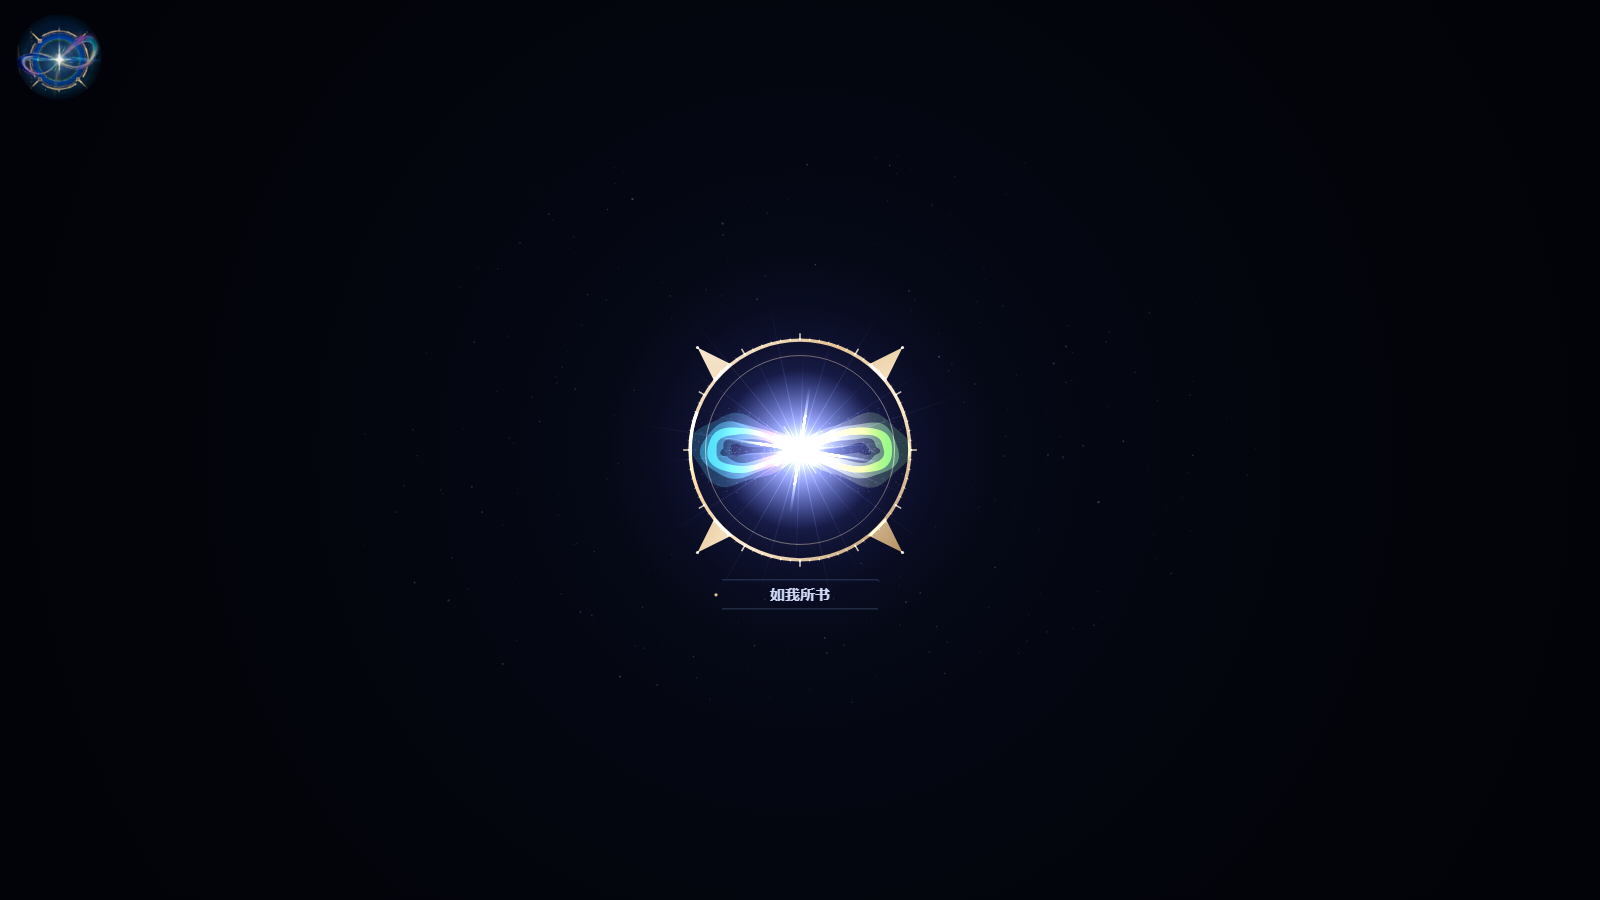
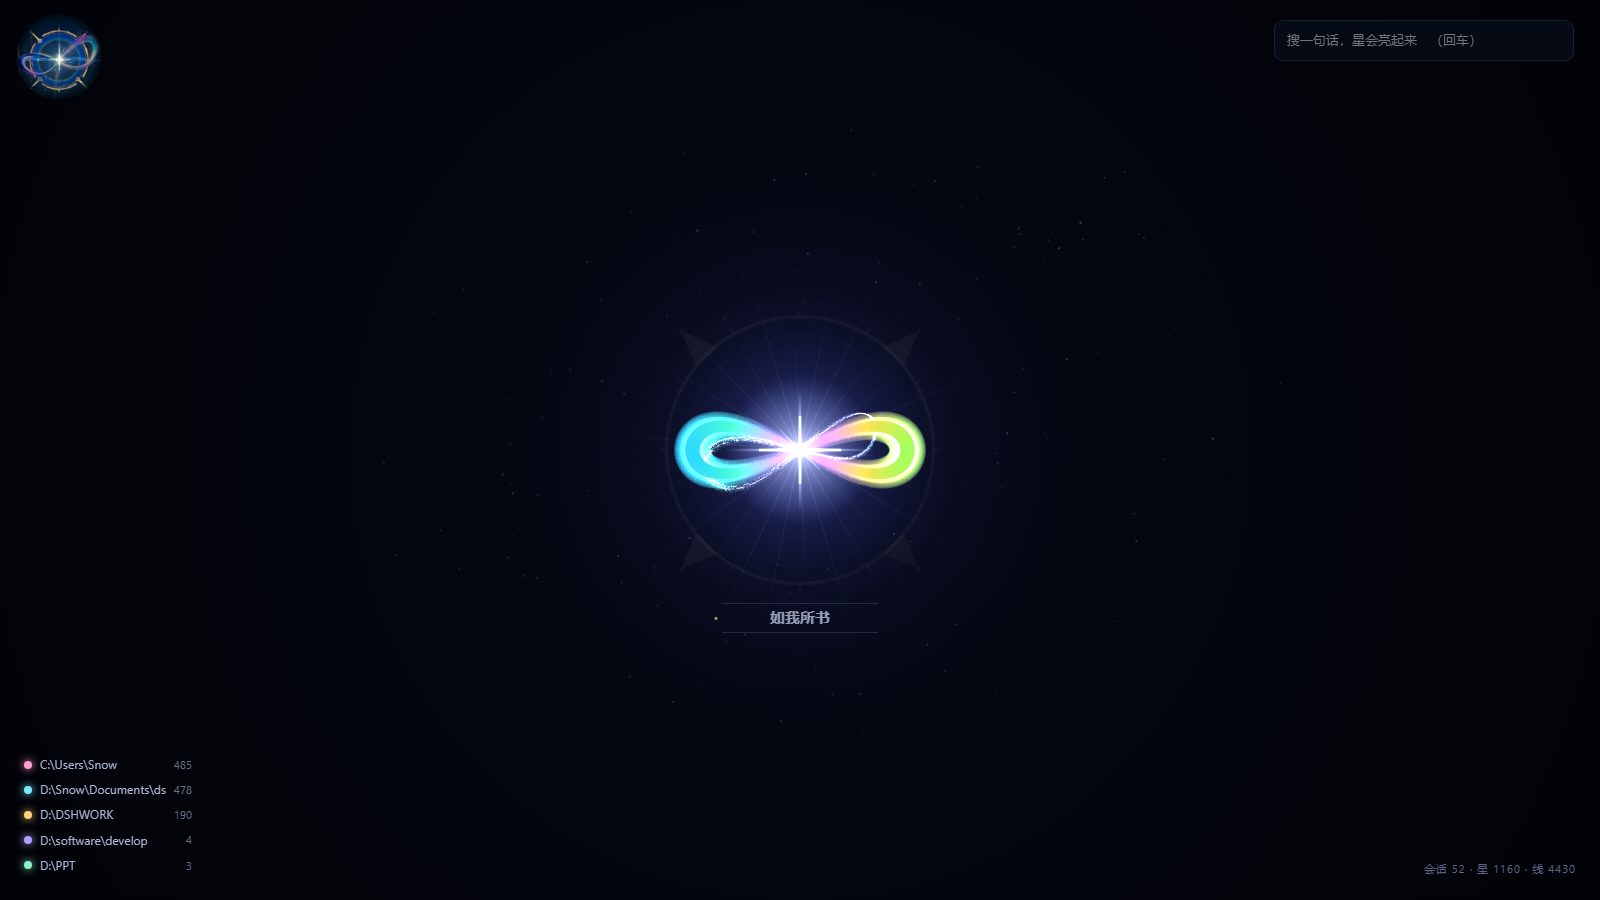
凝缩时相机复位（yaw/pitch/距离）并按实测外径对齐图标；丝带改盖章式笔刷；补回丢失的 BW 声明

diff --git a/public/index.html b/public/index.html
@@ -806,7 +806,7 @@
     } else if (autoSpin) {
       target.yaw += 0.0011;
     }
-    const k = dragging ? 0.35 : 0.12;   // 拖的时候跟手快一点
+    const k = stage === 'morph' ? 0.26 : (dragging ? 0.35 : 0.12);   // 凝缩时相机跟得更紧
     cam.yaw += (target.yaw - cam.yaw) * k;
     cam.pitch += (target.pitch - cam.pitch) * k;
     cam.dist += (target.dist - cam.dist) * 0.12;
@@ -824,8 +824,10 @@
     } else if (stage === 'morph') {
       morphT = Math.max(0, Math.min(1, morphT + (dt / MORPH_SECONDS) * morphDir));
       focusTarget.x *= 0.8; focusTarget.y *= 0.8; focusTarget.z *= 0.8;
-      // 凝缩时把 yaw 压回 0，保证每一轮的收束角度完全一样
-      target.yaw += (0 - target.yaw) * 0.16;
+      // 凝缩同时把视角复位：转到正面、拉回默认距离，之后缩小才对得上图标
+      target.yaw += (0 - target.yaw) * 0.18;
+      target.pitch += (1.32 - target.pitch) * 0.18;
+      target.dist += (5.9 - target.dist) * 0.18;
       if (morphT >= 1) stage = 'symbol';
       else if (morphT <= 0) { stage = 'galaxy'; setChrome(true); }
     }
@@ -862,11 +864,11 @@
       if (stage === 'morph') {
         const b = bandBounds();
         if (b) {
-          const settle = clamp01((morphT - 0.86) / 0.14);
+          const settle = clamp01((morphT - 0.94) / 0.06);
           view = {
             cx: W / 2,
             cy: H / 2,
-            size: Math.max(24, b.w) * (1 - settle) + SYMBOL_PX * settle,
+            size: Math.max(24, b.w / 1.24) * (1 - settle) + SYMBOL_PX * settle,
           };
         }
       }
@@ -908,8 +910,8 @@
       return {
         k: 1 - 0.76 * e,
         roll: -Math.PI / 2 * e,
-        a: qs.get('band') === '1' ? 1 : 1 - clamp01((morphT - 0.86) / 0.12),
-        inf: clamp01((morphT - 0.86) / 0.12),
+        a: qs.get('band') === '1' ? 1 : 1 - clamp01((morphT - 0.9) / 0.1),
+        inf: clamp01((morphT - 0.9) / 0.1),
         infS: 1,
       };
     }
@@ -1072,13 +1074,24 @@
       ctx.closePath();
     };
 
-    // 外晕 → 中层 → 亮芯，三层叠出笔触
-    const BW = size * 0.042;   // 丝带半宽（别用 W，那是画布宽度）
-    ctx.globalAlpha = alpha * 0.18; ctx.fillStyle = grad; bandPath(BW * 1.7, 0); ctx.fill();
-    ctx.globalAlpha = alpha * 0.3; bandPath(BW * 1.05, 1.7); ctx.fill();
-    // 实心层用正常叠色，避免三层加法叠成白色
+    // 笔刷：沿曲线一路盖章，半径随位置变化，实心不出空心
+    const BW = size * 0.03;    // 丝带半宽
+    const stamp = (radiusScale, alphaMul) => {
+      for (let i = 0; i <= 200; i++) {
+        const u = (i / 200) * Math.PI * 2;
+        const q = pt(u), n = norm(u);
+        const r = BW * radiusScale * (0.32 + 0.78 * Math.abs(Math.sin(u)));
+        const col = ribbonColor((q.x + A) / (2 * A));
+        ctx.globalAlpha = alpha * alphaMul;
+        ctx.fillStyle = col;
+        ctx.beginPath(); ctx.arc(q.x, q.y, r, 0, Math.PI * 2); ctx.fill();
+      }
+    };
+    // 外晕（加法） → 实心（正常叠色）
+    stamp(2.6, 0.10);
+    stamp(1.7, 0.14);
     ctx.globalCompositeOperation = 'source-over';
-    ctx.globalAlpha = alpha * 0.95; bandPath(BW * 0.5, 3.1); ctx.fill();
+    stamp(1.0, 0.95);
     ctx.globalCompositeOperation = 'lighter';
 
     // 边缘的颗粒（干笔触感）
